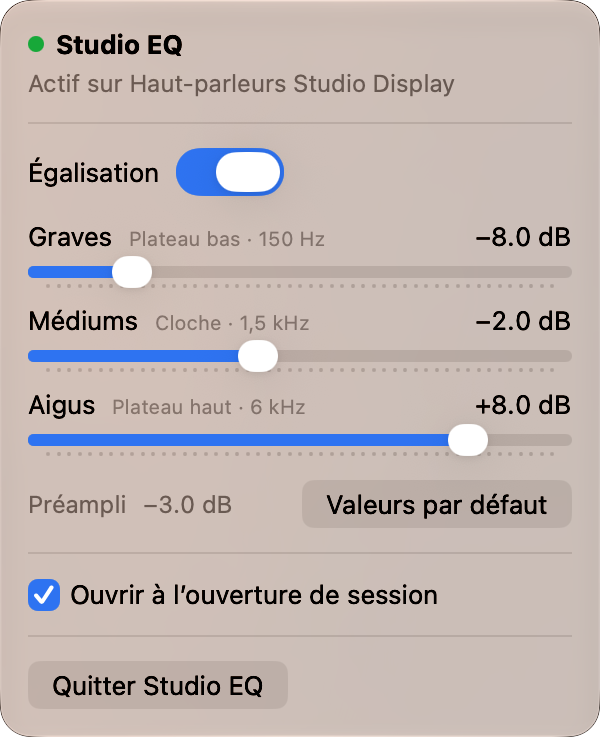
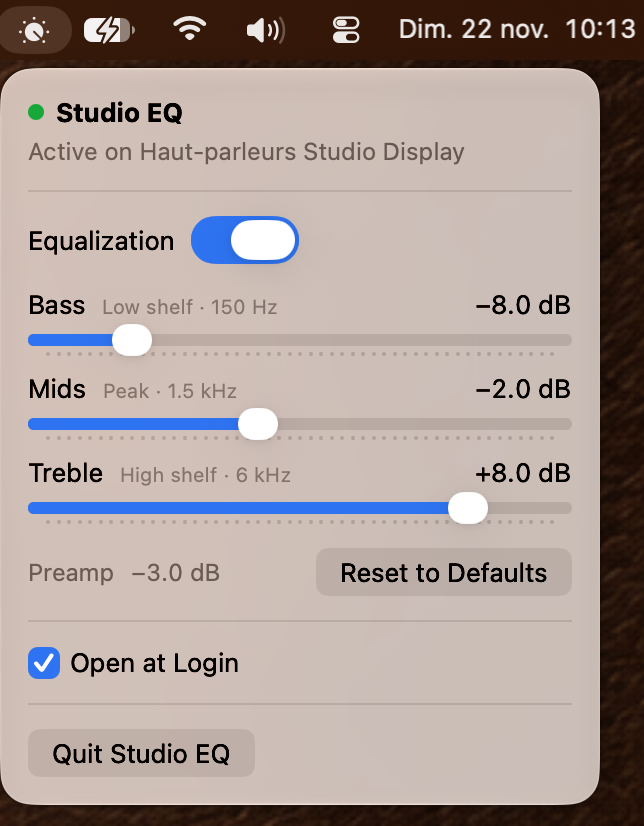
README in English by default, French in README.fr.md
Each README shows the menu in its own language.

diff --git a/README.md b/README.md
@@ -1,87 +1,84 @@
 # Studio EQ
 
-Petite app de barre des menus pour macOS qui égalise automatiquement le son **uniquement quand
-les haut-parleurs d'un Apple Studio Display sont la sortie audio du système**. Elle n'utilise
-aucun pilote audio virtuel, aucun réseau et aucune dépendance externe.
+**English** · [Français](README.fr.md)
+
+A small macOS menu bar app that automatically equalizes the sound **only while the speakers of
+an Apple Studio Display are the system audio output**. It uses no virtual audio driver, no
+network and no third-party dependency.
 
 <p align="center">
-  <img src="docs/images/menu.png" width="300"
-       alt="Menu de Studio EQ : état actif sur les haut-parleurs Studio Display, interrupteur d'égalisation, curseurs graves, médiums et aigus, préampli −3 dB, bouton Valeurs par défaut, option d'ouverture à la session.">
+  <img src="docs/images/menu.png" width="322"
+       alt="Studio EQ menu: active on the Studio Display speakers, Equalization switch, Bass, Mids and Treble sliders, −3 dB preamp, Reset to Defaults button, Open at Login option.">
 </p>
 
-- Studio Display sélectionné → égalisation active.
-- AirPods, haut-parleurs du Mac, autre sortie, écran débranché → égalisation inactive, son intact.
-- Bascule automatique à chaque changement, reprise au branchement, au réveil et à l'ouverture de
-  session (option).
-- Réglages par défaut : graves −6 dB, médiums +3 dB, aigus +2 dB. Ils sont modifiables et
-  conservés d'une session à l'autre.
+- Studio Display selected → equalization on.
+- AirPods, Mac speakers, any other output, display unplugged → equalization off, sound untouched.
+- Switches automatically on every change, and resumes when the display is plugged in, after
+  sleep and at login (optional).
+- Default settings: bass −6 dB, mids +3 dB, treble +2 dB. They can be changed and are kept
+  across sessions.
 
-## Installer
+## Install
 
-Téléchargez le DMG de la dernière version dans les
-[Releases](https://github.com/phocean/studio-eq/releases), ouvrez-le et glissez Studio EQ dans
-Applications. L'app est signée Developer ID et notarisée par Apple.
+Download the DMG of the latest version from
+[Releases](https://github.com/phocean/studio-eq/releases), open it and drag Studio EQ to
+Applications. The app is signed with Developer ID and notarized by Apple.
 
-Documentation : [faisabilité et choix du moteur](docs/FAISABILITE.md) ·
-[architecture](docs/ARCHITECTURE.md) · [paramètres DSP](docs/DSP.md) ·
-[compte rendu de tests](docs/TESTS.md) · [revues de code](docs/revues/SYNTHESE.md) ·
-[publier une version](docs/RELEASE.md) · [limitations](#limitations).
+Documentation (in French): [feasibility and engine choice](docs/FAISABILITE.md) ·
+[architecture](docs/ARCHITECTURE.md) · [DSP parameters](docs/DSP.md) ·
+[test report](docs/TESTS.md) · [code reviews](docs/revues/SYNTHESE.md) ·
+[publishing a release](docs/RELEASE.md) · [limitations](#limitations).
 
-## Prérequis
+## Requirements
 
-- Mac Apple Silicon, **macOS 15 ou plus récent** (les process taps exigent macOS 14.2 ; 15
-  est requis pour `Synchronization.Atomic`). Validé sur macOS 27.3.
-- Pour compiler : Xcode 26 ou plus récent (validé avec Xcode 26.6 en CI et 27.2 en local) et
-  [XcodeGen](https://github.com/yonaskolb/XcodeGen) (`brew install xcodegen`) : le projet Xcode
-  est généré à partir de `project.yml` et n'est pas versionné.
+- Apple Silicon Mac, **macOS 15 or later** (process taps need macOS 14.2; 15 is required for
+  `Synchronization.Atomic`). Validated on macOS 27.3.
+- To build: Xcode 26 or later (validated with Xcode 26.6 in CI and 27.2 locally) and
+  [XcodeGen](https://github.com/yonaskolb/XcodeGen) (`brew install xcodegen`): the Xcode project
+  is generated from `project.yml` and is not versioned.
 
-## Compiler depuis les sources
+## Build from source
 
 ```bash
 make install
 ```
 
-`make install` génère le projet, compile en Release, vérifie la signature, copie l'app dans
-`dist/` et dans `/Applications`, puis la lance ; rien n'est installé si la compilation
-échoue. `make help` liste les autres cibles : `build`, `test`, `validation`, `selftest`,
-`scenario`, `dmg`, `release`, `publish`, `clean`. Pour travailler dans Xcode : `make project`, puis
-ouvrez `StudioEQ.xcodeproj` (schéma `StudioEQ`, ⌘U pour les tests).
+`make install` generates the project, builds Release, checks the signature, copies the app to
+`dist/` and `/Applications`, then launches it; nothing is installed if the build fails.
+`make help` lists the other targets: `build`, `test`, `validation`, `selftest`, `scenario`,
+`dmg`, `release`, `publish`, `clean`. To work in Xcode: `make project`, then open
+`StudioEQ.xcodeproj` (scheme `StudioEQ`, ⌘U for tests).
 
-Signature : par défaut **ad hoc**, sans compte développeur. Pour signer avec votre identité,
-copiez `Config/Local.xcconfig.example` en `Config/Local.xcconfig` (ignoré par git) et
-renseignez-le. macOS rattache l'autorisation audio à la signature : une app signée autrement
-(ou, en ad hoc, chaque nouvelle compilation) redemande l'autorisation.
-Si une version signée différemment a déjà tourné sur le Mac, macOS demande aussi, au premier
-lancement, d'autoriser l'accès aux réglages qu'elle a laissés (« diffère des versions
-précédemment ouvertes »).
+Signing: **ad hoc** by default, no developer account needed. To sign with your own identity,
+copy `Config/Local.xcconfig.example` to `Config/Local.xcconfig` (ignored by git) and fill it
+in. macOS ties the audio permission to the signature: an app signed differently (or, ad hoc,
+every new build) asks for the permission again. If a differently signed copy already ran on the
+Mac, macOS also asks on first launch to allow access to the settings it left behind ("differs
+from previously opened versions").
 
-## Premier lancement
+## First launch
 
-1. L'icône (cadran) apparaît dans la barre des menus.
-2. Quand le Studio Display devient la sortie, macOS demande l'autorisation d'**enregistrer
-   l'audio du système**. Elle est indispensable pour relire le son destiné à l'écran. Rien n'est
-   enregistré ni transmis.
-3. Si l'autorisation est refusée, Studio EQ **ne coupe rien** : le son reste normal et le menu
-   l'indique, avec un bouton vers Réglages Système › Confidentialité et sécurité ›
-   Enregistrement de l'écran et de l'audio du système. Une fois l'autorisation accordée, cliquez
-   « Réessayer ».
-4. Cochez « Ouvrir à l'ouverture de session » si vous le souhaitez.
+1. The icon (a dial) appears in the menu bar.
+2. When the Studio Display becomes the output, macOS asks for permission to **record system
+   audio**. It is required to process the sound headed to the display. Nothing is recorded or
+   sent anywhere.
+3. If the permission is denied, Studio EQ **mutes nothing**: the sound stays normal and the
+   menu says so, with a button to System Settings › Privacy & Security › Screen & System Audio
+   Recording. Once the permission is granted, click "Retry".
+4. Check "Open at Login" if you wish.
 
 ## Menu
 
-État (actif, inactif et pourquoi, erreur) · interrupteur Égalisation · Graves / Médiums / Aigus
-(±12 dB, pas de 0,5 dB) · préampli fixe affiché (−3 dB) · Valeurs par défaut · Ouvrir à
-l'ouverture de session · Quitter (⌘Q).
+Status (active, inactive and why, error) · Equalization switch · Bass / Mids / Treble (±12 dB,
+0.5 dB steps) · fixed preamp shown (−3 dB) · Reset to Defaults · Open at Login · Quit (⌘Q).
 
-Chaque curseur ne modifie que sa bande : le préampli est fixe, il ne compense pas les
-réglages. Un limiteur de crête en sortie empêche toute saturation, même avec de fortes
-accentuations.
+Each slider only changes its own band: the preamp is fixed and does not compensate for the
+settings. A peak limiter on the output prevents any clipping, even with strong boosts.
 
-## Désinstaller
+## Uninstall
 
-Quittez l'app, décochez l'ouverture de session si besoin, puis supprimez
-`/Applications/StudioEQ.app` et éventuellement `~/Library/Containers/com.jcbaptiste.StudioEQ`.
-Pour remettre l'autorisation à zéro :
+Quit the app, uncheck Open at Login if needed, then delete `/Applications/StudioEQ.app` and
+optionally `~/Library/Containers/com.jcbaptiste.StudioEQ`. To reset the permission:
 
 ```bash
 tccutil reset AudioCapture com.jcbaptiste.StudioEQ
@@ -89,33 +86,32 @@ tccutil reset AudioCapture com.jcbaptiste.StudioEQ
 
 ## Limitations
 
-- **Autorisation retirée pendant l'égalisation** (Réglages Système) : le son continue (vérifié).
-  L'autorisation est revérifiée avant **chaque** montage du moteur (changement de sortie, de
-  fréquence, réveil, interrupteur) : un refus y est détecté sans couper le son.
-- **Latence ajoutée mesurée : 4,2 ms** à 48 kHz. Les lecteurs vidéo ne la compensent pas, car
-  ils ne la connaissent pas ; elle reste très en dessous du seuil de perception de la
-  synchronisation labiale (≈ 45 ms).
-- À chaque montage du moteur (passage vers le Studio Display, changement de fréquence, réveil),
-  0,2 à 0,6 s de son passent non traitées : c'est le temps de la vérification de l'autorisation,
-  faite avant de couper quoi que ce soit. Après une lecture, l'E/S reste active : ≈ 0,3 % d'un cœur.
-- Le son d'**une app qui choisit elle-même le Studio Display** alors que la sortie système est
-  ailleurs n'est pas égalisé : c'est voulu, seule la sortie système déclenche l'égalisation.
-- Les sons d'alerte suivent la « sortie des effets sonores » de macOS. S'ils vont vers l'écran
-  pendant que l'égalisation est active, ils sont égalisés eux aussi.
-- La reconnaissance du Studio Display repose sur les identifiants USB relevés sur un exemplaire
-  (`Studio Display Audio Control:05AC:1114`). Un futur modèle avec un autre nom de produit USB
-  ne serait pas reconnu sans mise à jour.
-- Une seule instance tourne à la fois : une seconde copie lancée (depuis le DMG par exemple)
-  se ferme aussitôt sans toucher au son.
-- Avec de fortes accentuations (au-delà de +3 dB au total) sur une musique déjà au maximum, le
-  limiteur de sortie travaille : pas de saturation, mais une légère compression des crêtes.
-- Les tests matériels encore à faire sont listés dans [TESTS.md](docs/TESTS.md).
+- **Permission revoked while equalizing** (System Settings): the sound keeps playing (verified).
+  The permission is checked again before **every** engine start (output change, sample rate
+  change, wake, switch), so a denial is caught there without muting the sound.
+- **Measured added latency: 4.2 ms** at 48 kHz. Video players do not compensate for it, since
+  they do not know about it; it stays far below the lip-sync perception threshold (≈ 45 ms).
+- Each time the engine starts (switching to the Studio Display, sample rate change, wake),
+  0.2 to 0.6 s of sound plays unprocessed: that is the time taken by the permission check, done
+  before muting anything. After playback, I/O stays active: ≈ 0.3% of one core.
+- Sound from **an app that picks the Studio Display itself** while the system output is
+  elsewhere is not equalized: this is intended, only the system output triggers equalization.
+- Alert sounds follow macOS's "Play sound effects through" output. If they go to the display
+  while equalization is on, they are equalized too.
+- The Studio Display is recognized by the USB identifiers read on one unit
+  (`Studio Display Audio Control:05AC:1114`). A future model with a different USB product name
+  would not be recognized without an update.
+- Only one instance runs at a time: a second copy (launched from the DMG, for instance) quits
+  immediately without touching the sound.
+- With strong boosts (more than +3 dB in total) on music already at full scale, the output
+  limiter works: no clipping, but slight peak compression.
+- Hardware tests still to be done are listed in [TESTS.md](docs/TESTS.md).
 
-## Licence
+## License
 
 Copyright © 2026 Jean-Christophe Baptiste.
 
-Studio EQ est un logiciel libre : vous pouvez le redistribuer et le modifier selon les termes de
-la **GNU General Public License, version 2 ou (à votre choix) toute version ultérieure**, telle
-que publiée par la Free Software Foundation. Il est distribué sans aucune garantie. Texte
-complet : [LICENSE](LICENSE). Identifiant SPDX : `GPL-2.0-or-later`.
+Studio EQ is free software: you can redistribute it and/or modify it under the terms of the
+**GNU General Public License, version 2 or (at your option) any later version**, as published by
+the Free Software Foundation. It is distributed without any warranty. Full text:
+[LICENSE](LICENSE). SPDX identifier: `GPL-2.0-or-later`.

diff --git a/README.fr.md b/README.fr.md
@@ -1,0 +1,123 @@
+# Studio EQ
+
+[English](README.md) · **Français**
+
+Petite app de barre des menus pour macOS qui égalise automatiquement le son **uniquement quand
+les haut-parleurs d'un Apple Studio Display sont la sortie audio du système**. Elle n'utilise
+aucun pilote audio virtuel, aucun réseau et aucune dépendance externe.
+
+<p align="center">
+  <img src="docs/images/menu-fr.png" width="300"
+       alt="Menu de Studio EQ : état actif sur les haut-parleurs Studio Display, interrupteur d'égalisation, curseurs graves, médiums et aigus, préampli −3 dB, bouton Valeurs par défaut, option d'ouverture à la session.">
+</p>
+
+- Studio Display sélectionné → égalisation active.
+- AirPods, haut-parleurs du Mac, autre sortie, écran débranché → égalisation inactive, son intact.
+- Bascule automatique à chaque changement, reprise au branchement, au réveil et à l'ouverture de
+  session (option).
+- Réglages par défaut : graves −6 dB, médiums +3 dB, aigus +2 dB. Ils sont modifiables et
+  conservés d'une session à l'autre.
+
+## Installer
+
+Téléchargez le DMG de la dernière version dans les
+[Releases](https://github.com/phocean/studio-eq/releases), ouvrez-le et glissez Studio EQ dans
+Applications. L'app est signée Developer ID et notarisée par Apple.
+
+Documentation : [faisabilité et choix du moteur](docs/FAISABILITE.md) ·
+[architecture](docs/ARCHITECTURE.md) · [paramètres DSP](docs/DSP.md) ·
+[compte rendu de tests](docs/TESTS.md) · [revues de code](docs/revues/SYNTHESE.md) ·
+[publier une version](docs/RELEASE.md) · [limitations](#limitations).
+
+## Prérequis
+
+- Mac Apple Silicon, **macOS 15 ou plus récent** (les process taps exigent macOS 14.2 ; 15
+  est requis pour `Synchronization.Atomic`). Validé sur macOS 27.3.
+- Pour compiler : Xcode 26 ou plus récent (validé avec Xcode 26.6 en CI et 27.2 en local) et
+  [XcodeGen](https://github.com/yonaskolb/XcodeGen) (`brew install xcodegen`) : le projet Xcode
+  est généré à partir de `project.yml` et n'est pas versionné.
+
+## Compiler depuis les sources
+
+```bash
+make install
+```
+
+`make install` génère le projet, compile en Release, vérifie la signature, copie l'app dans
+`dist/` et dans `/Applications`, puis la lance ; rien n'est installé si la compilation
+échoue. `make help` liste les autres cibles : `build`, `test`, `validation`, `selftest`,
+`scenario`, `dmg`, `release`, `publish`, `clean`. Pour travailler dans Xcode : `make project`, puis
+ouvrez `StudioEQ.xcodeproj` (schéma `StudioEQ`, ⌘U pour les tests).
+
+Signature : par défaut **ad hoc**, sans compte développeur. Pour signer avec votre identité,
+copiez `Config/Local.xcconfig.example` en `Config/Local.xcconfig` (ignoré par git) et
+renseignez-le. macOS rattache l'autorisation audio à la signature : une app signée autrement
+(ou, en ad hoc, chaque nouvelle compilation) redemande l'autorisation.
+Si une version signée différemment a déjà tourné sur le Mac, macOS demande aussi, au premier
+lancement, d'autoriser l'accès aux réglages qu'elle a laissés (« diffère des versions
+précédemment ouvertes »).
+
+## Premier lancement
+
+1. L'icône (cadran) apparaît dans la barre des menus.
+2. Quand le Studio Display devient la sortie, macOS demande l'autorisation d'**enregistrer
+   l'audio du système**. Elle est indispensable pour relire le son destiné à l'écran. Rien n'est
+   enregistré ni transmis.
+3. Si l'autorisation est refusée, Studio EQ **ne coupe rien** : le son reste normal et le menu
+   l'indique, avec un bouton vers Réglages Système › Confidentialité et sécurité ›
+   Enregistrement de l'écran et de l'audio du système. Une fois l'autorisation accordée, cliquez
+   « Réessayer ».
+4. Cochez « Ouvrir à l'ouverture de session » si vous le souhaitez.
+
+## Menu
+
+État (actif, inactif et pourquoi, erreur) · interrupteur Égalisation · Graves / Médiums / Aigus
+(±12 dB, pas de 0,5 dB) · préampli fixe affiché (−3 dB) · Valeurs par défaut · Ouvrir à
+l'ouverture de session · Quitter (⌘Q).
+
+Chaque curseur ne modifie que sa bande : le préampli est fixe, il ne compense pas les
+réglages. Un limiteur de crête en sortie empêche toute saturation, même avec de fortes
+accentuations.
+
+## Désinstaller
+
+Quittez l'app, décochez l'ouverture de session si besoin, puis supprimez
+`/Applications/StudioEQ.app` et éventuellement `~/Library/Containers/com.jcbaptiste.StudioEQ`.
+Pour remettre l'autorisation à zéro :
+
+```bash
+tccutil reset AudioCapture com.jcbaptiste.StudioEQ
+```
+
+## Limitations
+
+- **Autorisation retirée pendant l'égalisation** (Réglages Système) : le son continue (vérifié).
+  L'autorisation est revérifiée avant **chaque** montage du moteur (changement de sortie, de
+  fréquence, réveil, interrupteur) : un refus y est détecté sans couper le son.
+- **Latence ajoutée mesurée : 4,2 ms** à 48 kHz. Les lecteurs vidéo ne la compensent pas, car
+  ils ne la connaissent pas ; elle reste très en dessous du seuil de perception de la
+  synchronisation labiale (≈ 45 ms).
+- À chaque montage du moteur (passage vers le Studio Display, changement de fréquence, réveil),
+  0,2 à 0,6 s de son passent non traitées : c'est le temps de la vérification de l'autorisation,
+  faite avant de couper quoi que ce soit. Après une lecture, l'E/S reste active : ≈ 0,3 % d'un cœur.
+- Le son d'**une app qui choisit elle-même le Studio Display** alors que la sortie système est
+  ailleurs n'est pas égalisé : c'est voulu, seule la sortie système déclenche l'égalisation.
+- Les sons d'alerte suivent la « sortie des effets sonores » de macOS. S'ils vont vers l'écran
+  pendant que l'égalisation est active, ils sont égalisés eux aussi.
+- La reconnaissance du Studio Display repose sur les identifiants USB relevés sur un exemplaire
+  (`Studio Display Audio Control:05AC:1114`). Un futur modèle avec un autre nom de produit USB
+  ne serait pas reconnu sans mise à jour.
+- Une seule instance tourne à la fois : une seconde copie lancée (depuis le DMG par exemple)
+  se ferme aussitôt sans toucher au son.
+- Avec de fortes accentuations (au-delà de +3 dB au total) sur une musique déjà au maximum, le
+  limiteur de sortie travaille : pas de saturation, mais une légère compression des crêtes.
+- Les tests matériels encore à faire sont listés dans [TESTS.md](docs/TESTS.md).
+
+## Licence
+
+Copyright © 2026 Jean-Christophe Baptiste.
+
+Studio EQ est un logiciel libre : vous pouvez le redistribuer et le modifier selon les termes de
+la **GNU General Public License, version 2 ou (à votre choix) toute version ultérieure**, telle
+que publiée par la Free Software Foundation. Il est distribué sans aucune garantie. Texte
+complet : [LICENSE](LICENSE). Identifiant SPDX : `GPL-2.0-or-later`.
